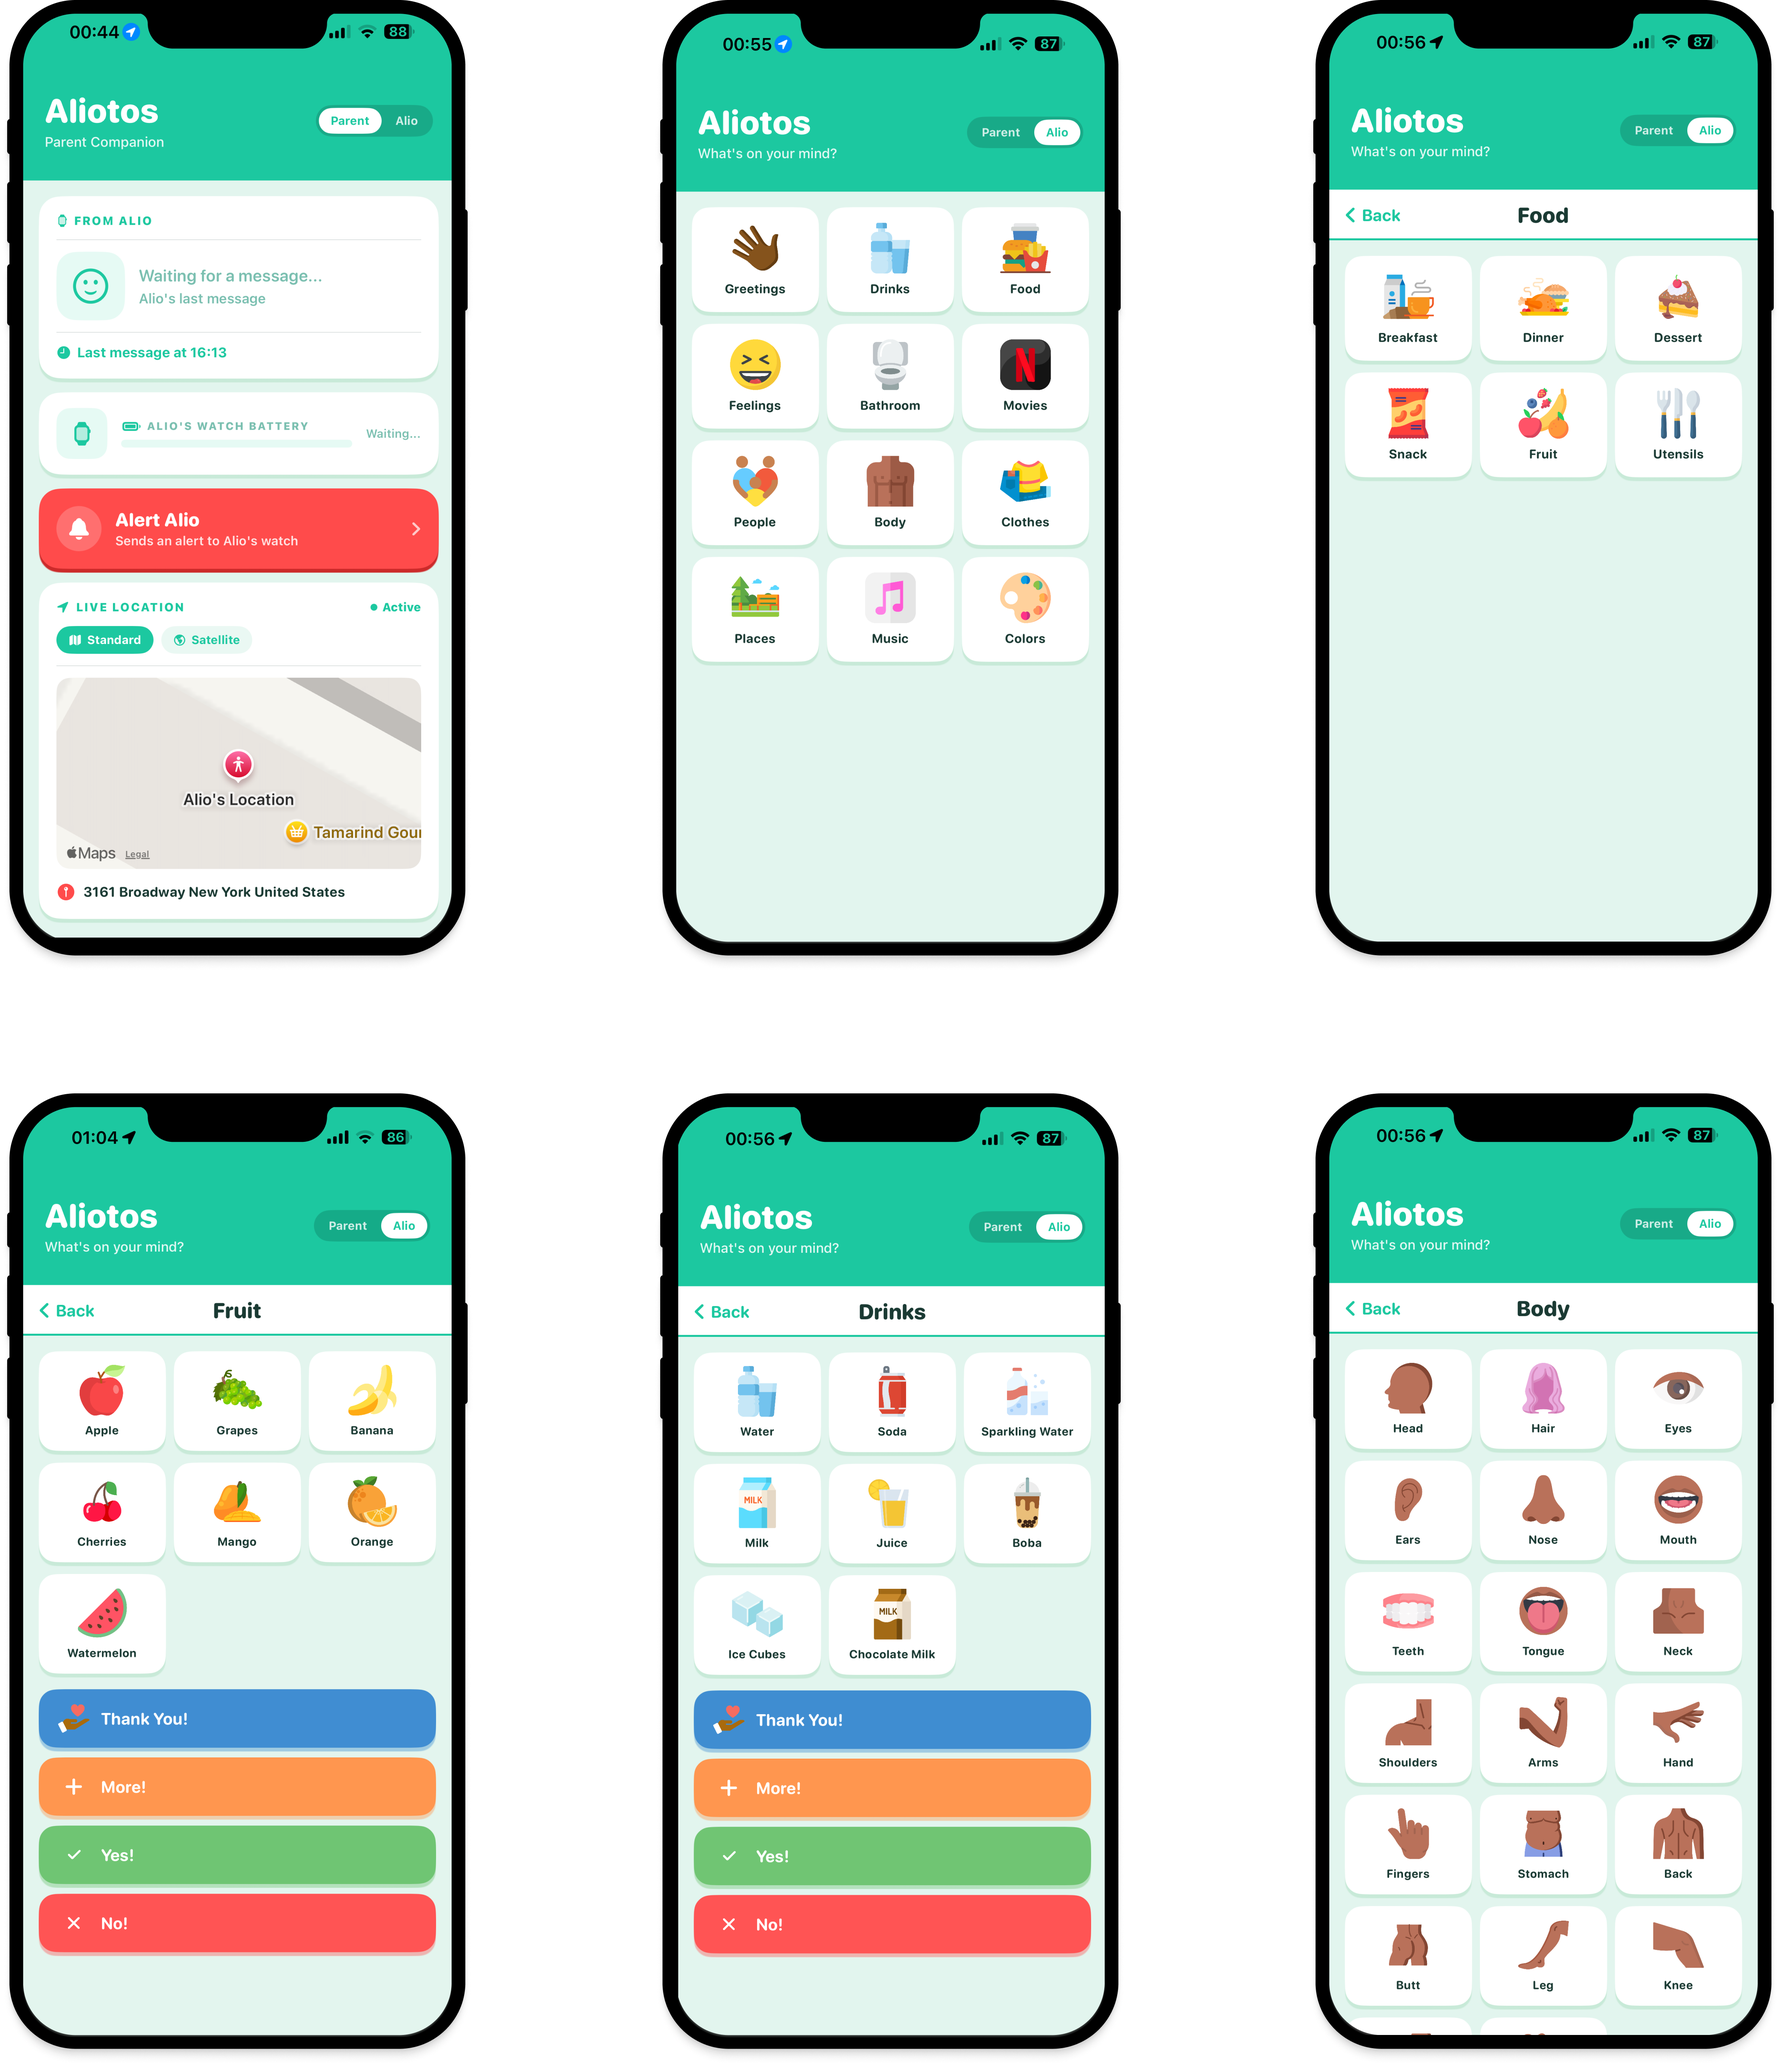
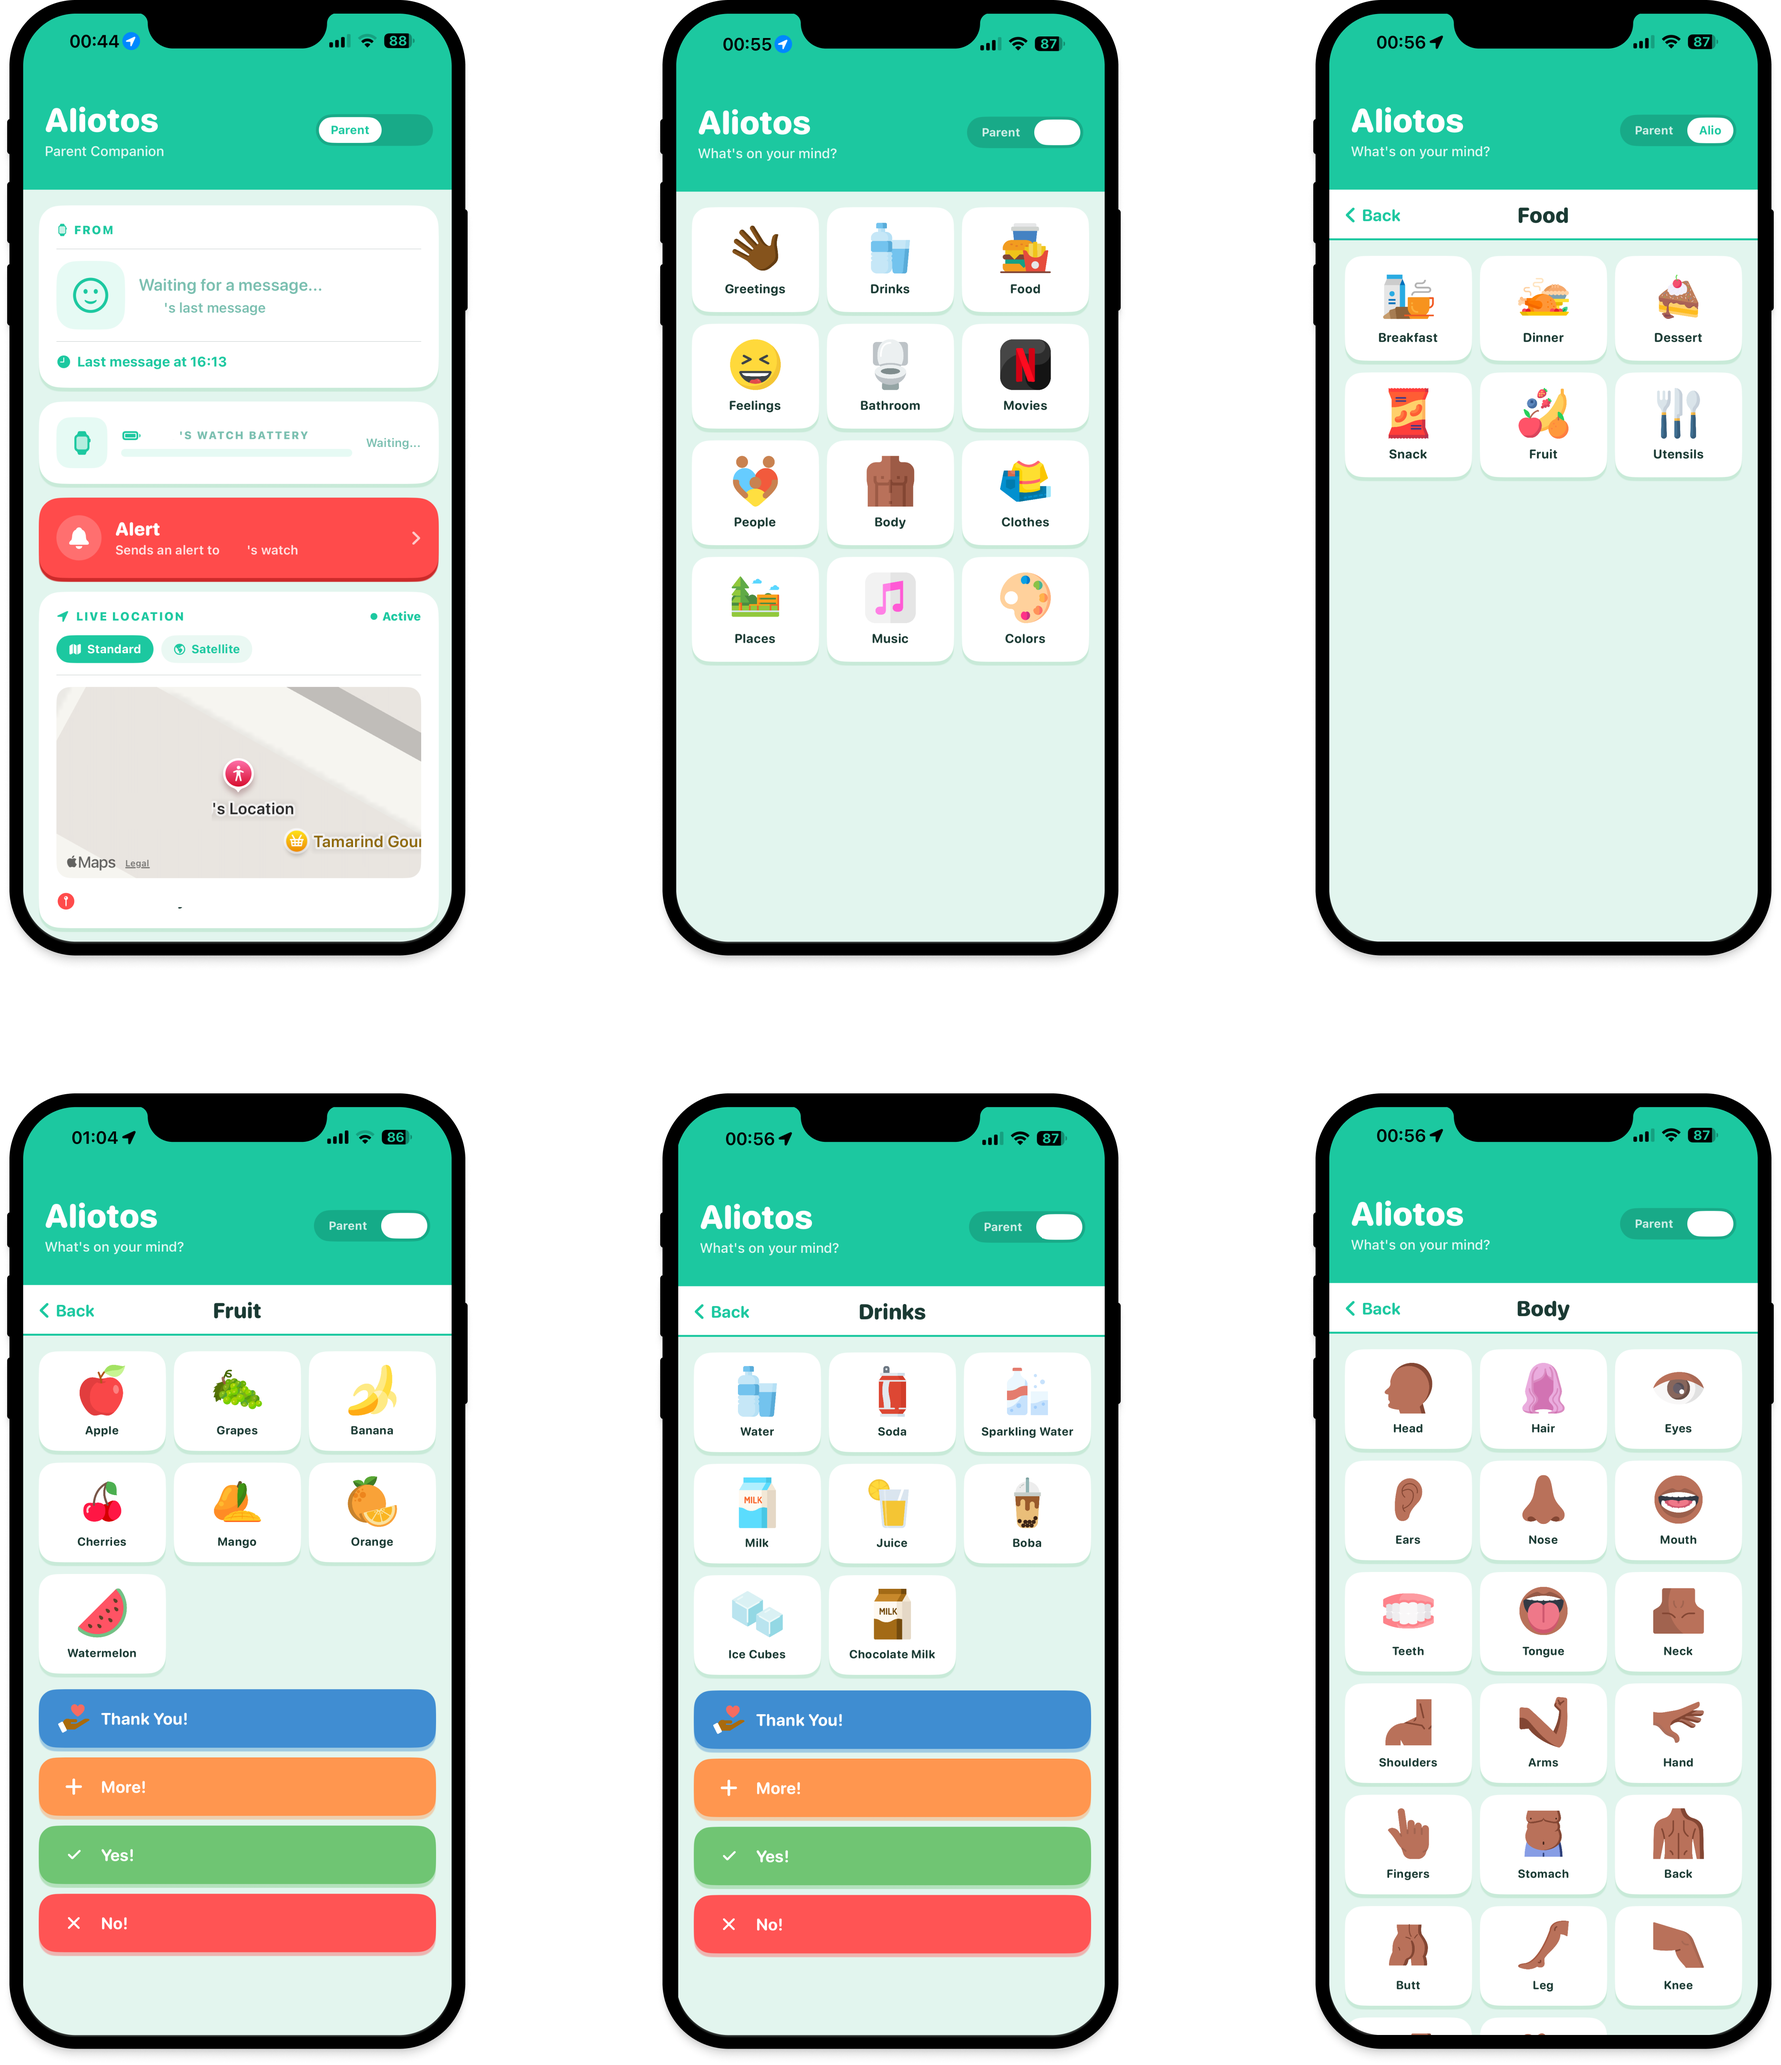
update aliotos blurb and remove media dates
Replace jargon-heavy AAC description with plain-language copy for non-verbal users. Remove year display from all media section cards.

Changed region(s): [[0.0, 0.0, 0.25, 0.3747], [0.0312, 0.3435, 0.25, 0.4684]]

diff --git a/src/data/content.js b/src/data/content.js
@@ -31,7 +31,7 @@ export const projects = [
     role: 'Designer & Developer',
     tools: ['Figma', 'Swift', 'watchOS', 'iOS'],
     blurb:
-      'A dual-mode AAC product that pairs a watch-first expressive interface with a parent companion app. Users can switch the same icon-based communication system onto the phone for handoff, support, and caregiver-driven check-ins.',
+      'A communication app for non-verbal users — children tap icons on their Apple Watch to express themselves, while a caregiver companion app on iPhone mirrors the same interface for real-time support and check-ins.',
     tags: ['Accessibility', 'Wearable', 'Healthcare', 'Companion'],
     color: '#3FB8D1',
     thumbnail: '/projects/aliotos/aliotos.png',

diff --git a/src/components/Media.jsx b/src/components/Media.jsx
@@ -159,9 +159,6 @@ export default function Media() {
                 <span className="font-mono text-[11px] uppercase tracking-[0.2em] text-ink-400">
                   {item.source}
                 </span>
-                <span className="font-mono text-[11px] text-ink-400">
-                  {item.year}
-                </span>
               </div>
 
               <div className="flex-1 min-w-0">
